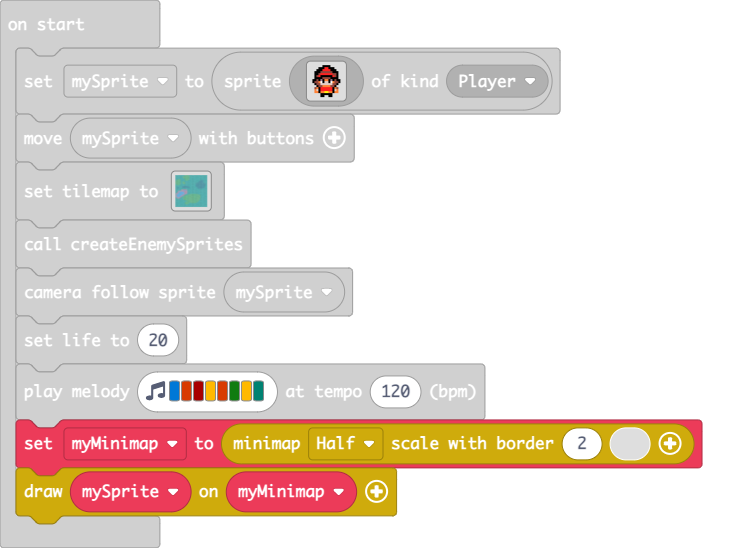
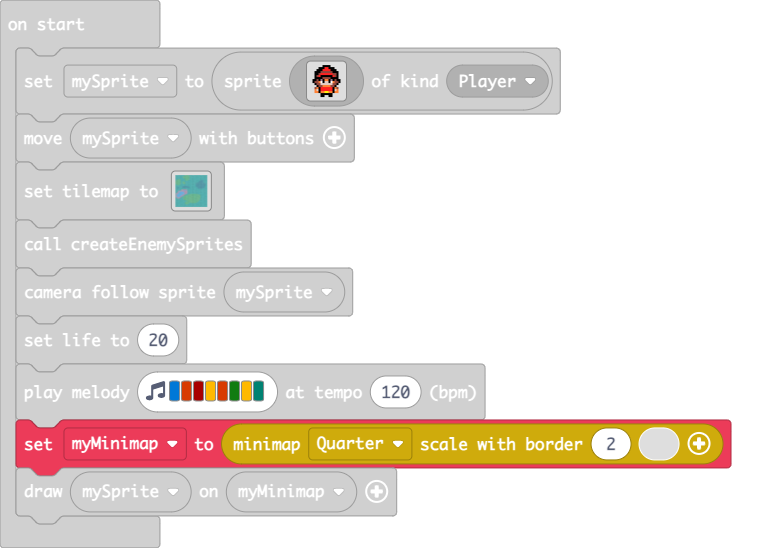
Update pxt.json, main.blocks, main.ts

diff --git a/main.ts b/main.ts
@@ -855,7 +855,7 @@ createEnemySprites()
 scene.cameraFollowSprite(mySprite)
 info.setLife(20)
 music.playMelody("E B C5 A B G A F ", 120)
-let myMinimap = minimap.minimap()
+let myMinimap = minimap.minimap(MinimapScale.Quarter, 2, 0)
 minimap.includeSprite(myMinimap, mySprite)
 game.onUpdateInterval(1000, function () {
     if (true) {
